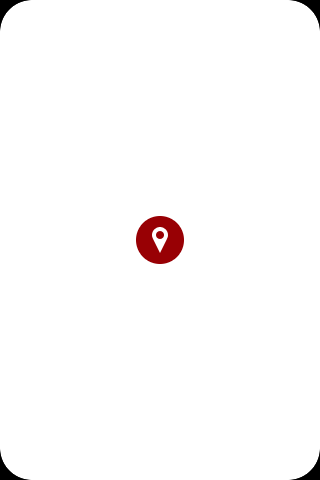
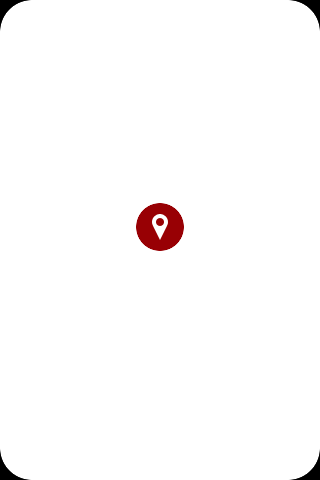
.2

Changed region(s): [[0.4062, 0.4062, 0.5938, 0.5625]]

diff --git a/Lokator/RecordViewController.m b/Lokator/RecordViewController.m
@@ -26,6 +26,7 @@
     [recordDot setBackgroundColor:[UIColor colorWithCSS:@"#EE0000"]];
     
     [splash setMaskFromImage:[UIImage imageNamed:@"marker.png"]];
+    [pointer setMaskFromImage:[UIImage imageNamed:@"markerAlt.png"]];
     [splash setCornerRadius:24];
     
     [doubleTap requireGestureRecognizerToFail:trippleTap];
@@ -46,22 +47,44 @@
     //NSLog(@"Location: %@", newLocation);
     
     if ([newLocation distanceFromLocation:oldLocation]) {
+        currentLocation = newLocation;
         
         MKMapPoint mapPoint = MKMapPointForCoordinate(newLocation.coordinate);
+        float zoom = 10000;
         
-        [map setVisibleMapRect:MKMapRectMake(mapPoint.x-5000, mapPoint.y-5000, 10000, 10000)
+        
+        [map setVisibleMapRect:MKMapRectMake(mapPoint.x-zoom/2, mapPoint.y-zoom/2, zoom, zoom)
                       animated:YES];
     }
 }
 
 - (void)viewDidAppear:(BOOL)animated{
     [super viewDidAppear:animated];
-    // Hide icon
-    if (!animated) [splash.layer addAnimation:[Animator disappear] forKey:@"disappearAnimation"];
+    
+    // Animate icon
+    if (!animated){
+        [splash.layer addAnimation:[Animator disappear] forKey:@"disappearAnimation"];
+        [pointer.layer addAnimation:[Animator appear] forKey:@"appearAnimation"];
+    }
 }
 
 - (IBAction)doubleTap:(UITapGestureRecognizer *)sender {
     [upperView.layer addAnimation:[Animator flash] forKey:@"flashAnimation"];
+    NSLog(@"Snap on: %@", currentLocation);
+    
+    UIGraphicsBeginImageContext(map.frame.size);
+    [map.layer renderInContext:UIGraphicsGetCurrentContext()];
+    UIImage *mapImage = UIGraphicsGetImageFromCurrentImageContext();
+    UIGraphicsEndImageContext();
+    
+    CLLocation *locationToSave = currentLocation;
+    
+    NSData *mapData = UIImagePNGRepresentation(mapImage);
+    [mapData writeToFile:[NSString stringWithFormat:@"%@/%.0f.png", [Library applicationDocumentsDirectory], locationToSave.timestamp.timeIntervalSince1970] atomically:YES];
+    
+    [[[Library sharedLibrary] elements] addObject:locationToSave];
+    
+    [[Library sharedLibrary] save];
 }
 
 - (IBAction)trippleTap:(UITapGestureRecognizer *)sender {

diff --git a/Lokator/ListViewController.m b/Lokator/ListViewController.m
@@ -22,7 +22,7 @@
 #pragma mark Collection
 
 - (NSInteger)collectionView:(UICollectionView *)collectionView numberOfItemsInSection:(NSInteger)section{
-    return 3;
+    return [[Library sharedLibrary] elements].count;
 }
 
 -(UICollectionViewCell *)collectionView:(UICollectionView *)collectionView
@@ -30,17 +30,11 @@
     MapCell *cell = [collectionView dequeueReusableCellWithReuseIdentifier:@"Label"
                                                                            forIndexPath:indexPath];
     
-    [cell.image setImage:[UIImage imageNamed:@"map"]];
-    [cell.icon setCornerRadius:24];
+    CLLocation *location = [[[Library sharedLibrary] elements] objectAtIndex:[Library.sharedLibrary.elements count] - indexPath.row - 1];
     
-    switch (rand()%2) {
-        case 0:
-            [cell.icon setMaskFromImage:[UIImage imageNamed:@"marker.png"]];
-            break;
-        default:
-            [cell.icon setMaskFromImage:[UIImage imageNamed:@"mapMarker.png"]];
-            break;
-    }
+    [cell.image setImage:[UIImage imageWithContentsOfFile:[NSString stringWithFormat:@"%@/%.0f.png", [Library applicationDocumentsDirectory], location.timestamp.timeIntervalSince1970]]];
+    [cell.icon setCornerRadius:24];
+    [cell.icon setMaskFromImage:[UIImage imageNamed:@"marker.png"]];
     
     return cell;
 }

diff --git a/Lokator/Library.m b/Lokator/Library.m
@@ -1,0 +1,45 @@
+//
+//  Library.m
+//  Lokator
+//
+//  Created by Paweł Ksieniewicz on 27.05.2013.
+//  Copyright (c) 2013 Paweł Ksieniewicz. All rights reserved.
+//
+
+#import "Library.h"
+
+@implementation Library
+@synthesize elements;
+
+- (id)init{
+    if (self = [super init]) {
+        
+        self.elements = [NSKeyedUnarchiver unarchiveObjectWithData:[NSData dataWithContentsOfFile:[NSString stringWithFormat:@"%@/elements.plist", [Library applicationDocumentsDirectory]]]];
+    
+        if (!self.elements) self.elements = [[NSMutableArray alloc] init];
+    }
+    return self;
+}
+
++ (Library *) sharedLibrary
+{
+    static dispatch_once_t once;
+    static Library *sharedLibrary;
+    dispatch_once(&once, ^{
+        sharedLibrary = [[self alloc] init];
+    });
+    return sharedLibrary;
+}
+
++ (NSString *) applicationDocumentsDirectory
+{
+    NSArray *paths = NSSearchPathForDirectoriesInDomains(NSDocumentDirectory, NSUserDomainMask, YES);
+    NSString *basePath = ([paths count] > 0) ? [paths objectAtIndex:0] : nil;
+    return basePath;
+}
+
+- (void) save {
+    [[NSKeyedArchiver archivedDataWithRootObject:elements] writeToFile:[NSString stringWithFormat:@"%@/elements.plist", [Library applicationDocumentsDirectory]] atomically:YES];
+}
+
+@end

diff --git a/Lokator/Animator.m b/Lokator/Animator.m
@@ -10,10 +10,22 @@
 
 @implementation Animator
 
+
++ (CABasicAnimation *)appear{
+    CABasicAnimation *appear = [CABasicAnimation animationWithKeyPath:@"opacity"];
+    appear.fromValue = [NSNumber numberWithFloat:0];
+    appear.toValue = [NSNumber numberWithFloat:.9];
+    appear.duration = 1;        // 1 second
+    appear.autoreverses = NO;    // Back
+    appear.repeatCount = 1;
+    
+    return appear;
+}
+
 + (CABasicAnimation *)disappear{
     CABasicAnimation *disappear = [CABasicAnimation animationWithKeyPath:@"opacity"];
     disappear.fromValue = [NSNumber numberWithFloat:1.0];
-    disappear.toValue = [NSNumber numberWithFloat:0.0];
+    disappear.toValue = [NSNumber numberWithFloat:0.15];
     disappear.duration = 1;        // 1 second
     disappear.autoreverses = NO;    // Back
     disappear.repeatCount = 1;
@@ -30,6 +42,7 @@
     
     return flash;
 }
+
 
 + (CABasicAnimation *)blink{
     CABasicAnimation *blink = [CABasicAnimation animationWithKeyPath:@"opacity"];

diff --git a/Lokator/RecordViewController.h b/Lokator/RecordViewController.h
@@ -14,10 +14,14 @@
 @interface RecordViewController : RoundedViewController <CLLocationManagerDelegate> {
     CLLocationManager *locationManager;
     
-    IBOutlet UIView *recordDot, *upperView, *splash;
+    CLLocation *currentLocation;
+    
+    IBOutlet UIView *recordDot, *upperView, *splash, *pointer;
     IBOutlet UITapGestureRecognizer *doubleTap, *trippleTap;
     IBOutlet UISwipeGestureRecognizer *swipeUp;
     IBOutlet MKMapView *map;
+    
+    
     BOOL recording;
 }
 

diff --git a/Lokator/Library.h b/Lokator/Library.h
@@ -1,0 +1,20 @@
+//
+//  Library.h
+//  Lokator
+//
+//  Created by Paweł Ksieniewicz on 27.05.2013.
+//  Copyright (c) 2013 Paweł Ksieniewicz. All rights reserved.
+//
+
+#import <Foundation/Foundation.h>
+
+@interface Library : NSObject
+
+@property (nonatomic, retain) NSMutableArray *elements;
+
++ (Library *) sharedLibrary;
++ (NSString *) applicationDocumentsDirectory;
+
+- (void) save;
+
+@end

diff --git a/Lokator/Animator.h b/Lokator/Animator.h
@@ -11,6 +11,7 @@
 
 @interface Animator : NSObject
 
++ (CABasicAnimation *) appear;
 + (CABasicAnimation *) disappear;
 + (CABasicAnimation *) flash;
 + (CABasicAnimation *) blink;
